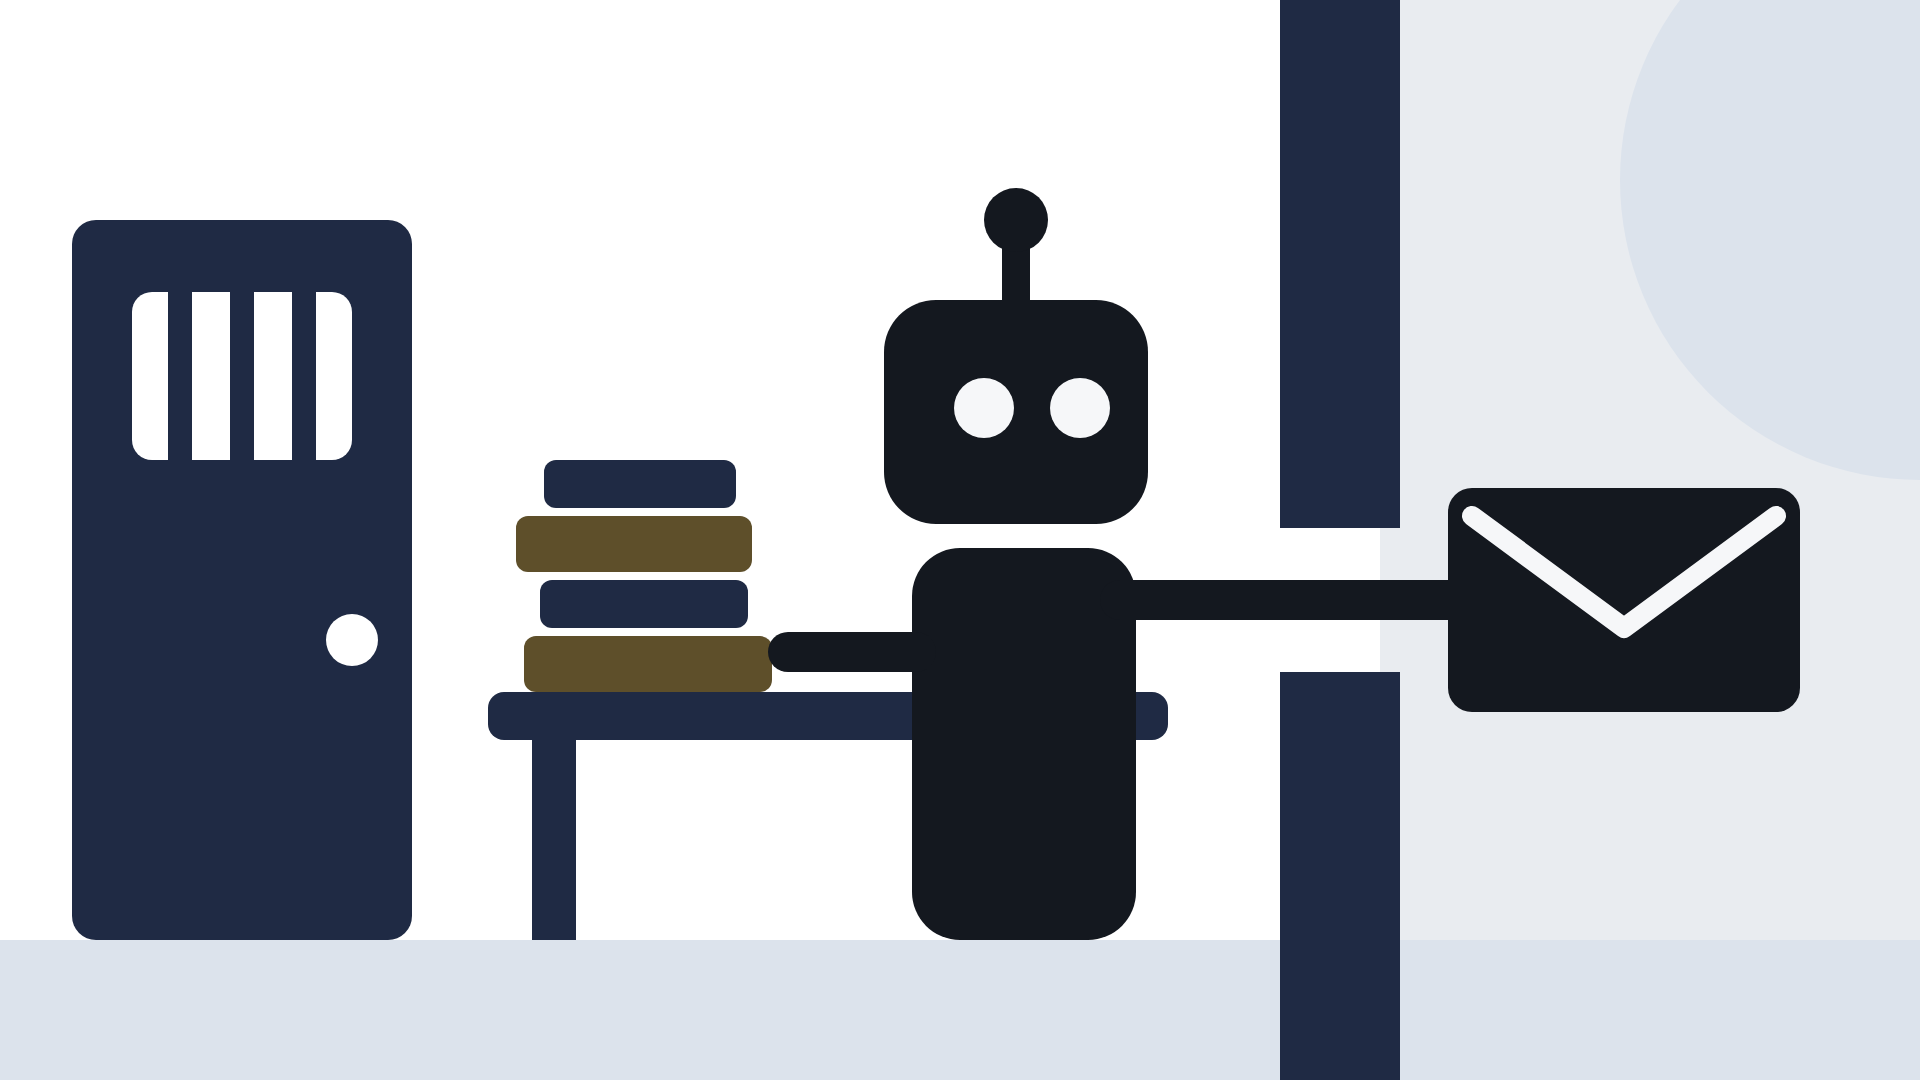
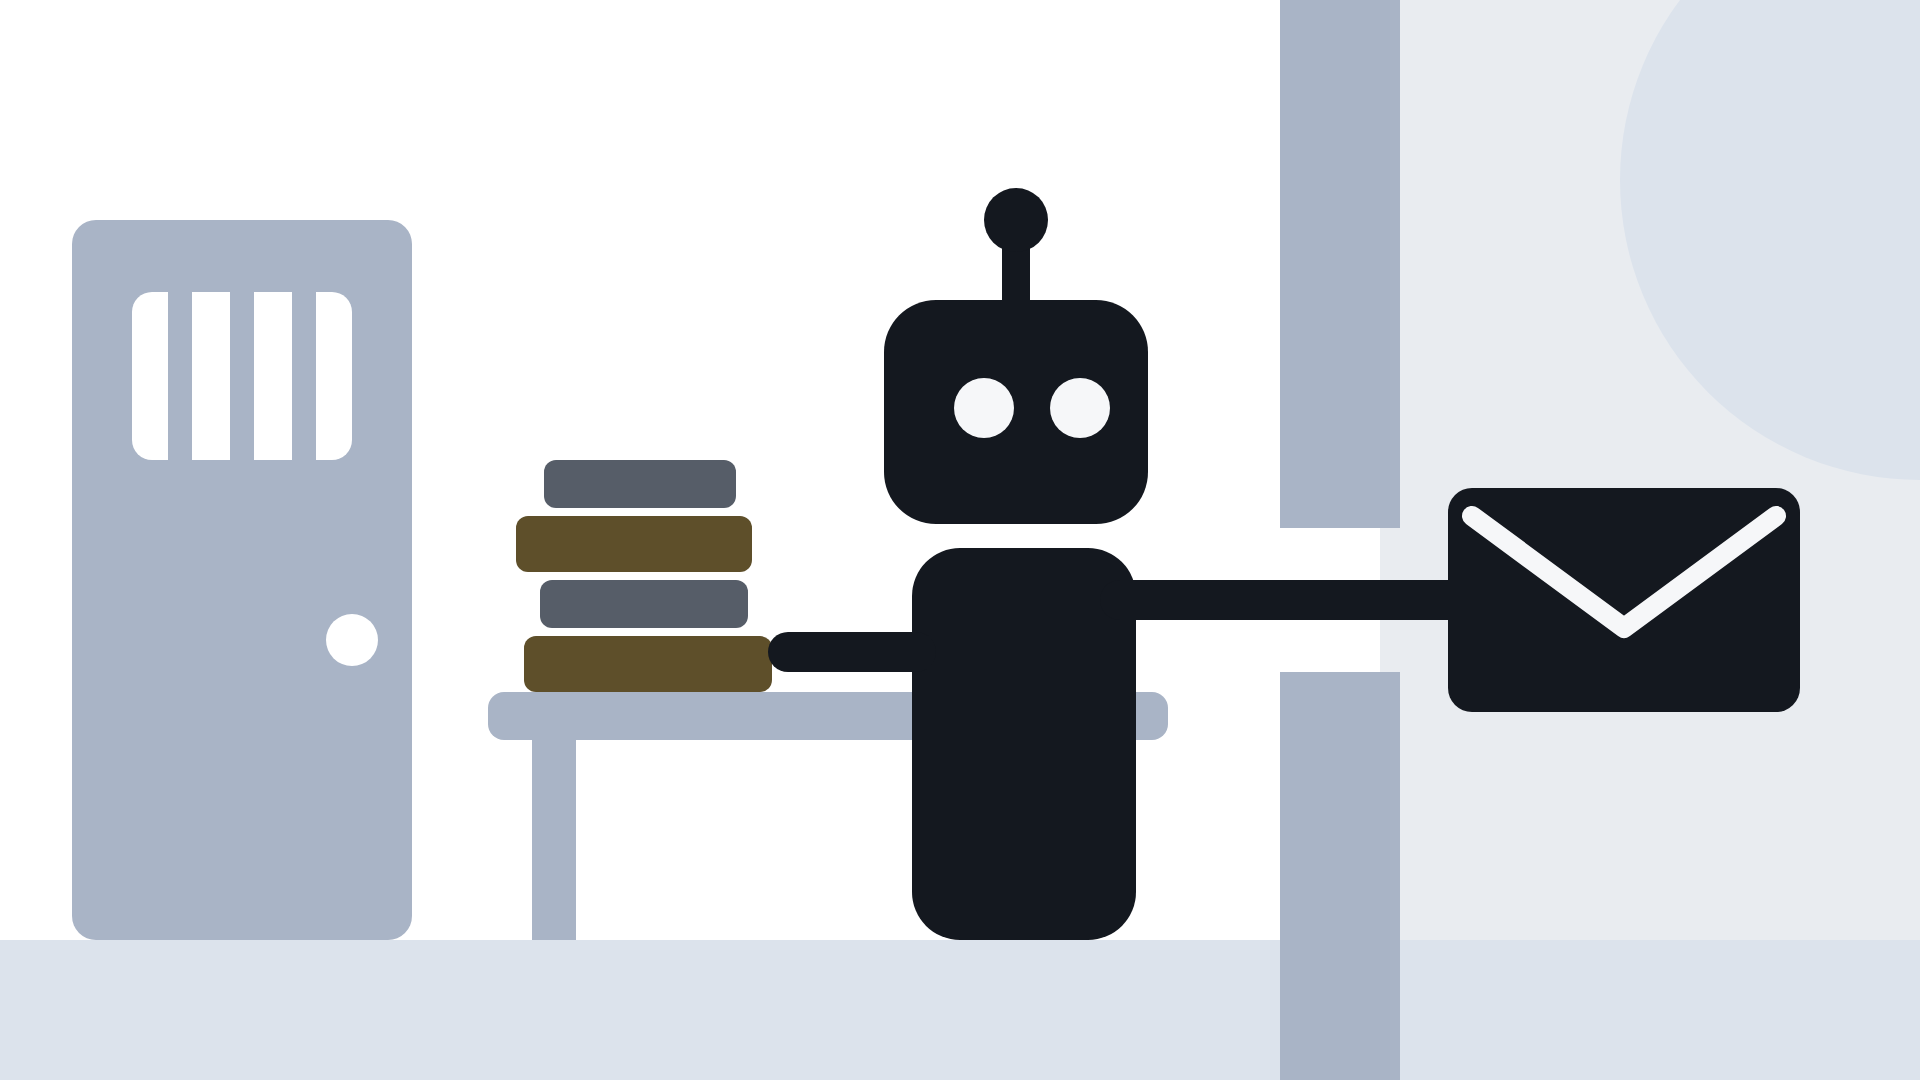
fix: a quieter setting in the headline figure
The door, table and wall recede in both themes, so the robot, books and
envelope carry the picture. figure-structure is now the color for a
figure's setting, and the rules say what to use for things that must stand
out.

diff --git a/design/system/tokens.css b/design/system/tokens.css
@@ -57,7 +57,7 @@
   --on-human: #14181f;
   --on-human-accent: #5e4f2a;
   --figure-hatch: #d6dbe3;
-  --figure-structure: #1f2a44;
+  --figure-structure: #a9b4c6;
   --focus: #3a74d0;
   color-scheme: light dark;
 }
@@ -81,7 +81,7 @@
     --on-human: #ece4d2;
     --on-human-accent: #d9c9a0;
     --figure-hatch: #2a3340;
-    --figure-structure: #8497bd;
+    --figure-structure: #4f5f82;
     --focus: #e8ecf2;
   }
 }
@@ -104,6 +104,6 @@
   --on-human: #ece4d2;
   --on-human-accent: #d9c9a0;
   --figure-hatch: #2a3340;
-  --figure-structure: #8497bd;
+  --figure-structure: #4f5f82;
   --focus: #e8ecf2;
 }

diff --git a/web/assets/mom-tokens.css b/web/assets/mom-tokens.css
@@ -57,7 +57,7 @@
   --on-human: #14181f;
   --on-human-accent: #5e4f2a;
   --figure-hatch: #d6dbe3;
-  --figure-structure: #1f2a44;
+  --figure-structure: #a9b4c6;
   --focus: #3a74d0;
   color-scheme: light dark;
 }
@@ -81,7 +81,7 @@
     --on-human: #ece4d2;
     --on-human-accent: #d9c9a0;
     --figure-hatch: #2a3340;
-    --figure-structure: #8497bd;
+    --figure-structure: #4f5f82;
     --focus: #e8ecf2;
   }
 }
@@ -104,6 +104,6 @@
   --on-human: #ece4d2;
   --on-human-accent: #d9c9a0;
   --figure-hatch: #2a3340;
-  --figure-structure: #8497bd;
+  --figure-structure: #4f5f82;
   --focus: #e8ecf2;
 }

diff --git a/design/figures/style-guide.md b/design/figures/style-guide.md
@@ -47,7 +47,7 @@ Figure sources use these names, written `{role}`. The renderer fills in the valu
 | `{on-human}` | `on-human` | `#14181f` | `#ece4d2` |
 | `{human-mark}` | `on-human-accent` | `#5e4f2a` | `#d9c9a0` |
 | `{hatch}` | `figure-hatch` | `#d6dbe3` | `#2a3340` |
-| `{structure}` | `figure-structure` | `#1f2a44` | `#8497bd` |
+| `{structure}` | `figure-structure` | `#a9b4c6` | `#4f5f82` |
 | `{brand}` | `brand` | `#1f2a44` | `#2a3a5e` |
 | `{on-brand}` | `on-brand` | `#f6f7f9` | `#e8ecf2` |
 
@@ -293,7 +293,7 @@ An illustration is for a place or a moment, not an explanation. It shares its la
 - **View**: flat side elevation. No perspective, no ground shadow, no gradient, no texture, no outlines.
 - **Shapes**: rectangles with corners of at least 12px, discs and simple curves. People are silhouettes with no faces; use the person glyph's proportions.
 - **One large disc** cropped by the canvas edge, as in the placeholder art's `eclipse` and `moon` compositions.
-- **Palette**: `{ground}`, `{inset}`, `{machine-fill}`, `{human-fill}`, `{human-mark}`, `{brand}`, `{structure}`, and `{focal}` with `{on-focal}` on the subject only. No more than six in one figure. Anything the reader must see, at night too, needs 3:1 against what is behind it: use `{structure}` or `{human-mark}` for it, not `{brand}` or `{human-fill}`, which are for quiet paint. Here the fills are paint and say nothing about provenance. Don't put machine or human glyphs in an illustration.
+- **Palette**: `{ground}`, `{inset}`, `{machine-fill}`, `{human-fill}`, `{human-mark}`, `{brand}`, `{structure}`, and `{focal}` with `{on-focal}` on the subject only. No more than six in one figure. Draw the setting (walls, doors, furniture) in `{structure}`, so it stays visible in both themes without competing. Anything the reader must pick out, at night too, needs at least 3:1 against what is behind it: use `{focal}`, `{human-mark}` or `{ink-muted}`, not `{brand}` or `{human-fill}`. Here the fills are paint and say nothing about provenance. Don't put machine or human glyphs in an illustration.
 - **Subject**: exactly one in `{focal}`, in the lower third.
 - **Words**: only what a real sign would say, in `t-head`. An illustration carries no stamp; its caption says if the scene is invented.
 - It never depicts a real person, a real place or a real brand. No generated imagery unless an editor asks for it.

diff --git a/design/figures/rules.md b/design/figures/rules.md
@@ -149,7 +149,7 @@ An illustration is for a place or a moment, not an explanation. It shares its la
 - **View**: flat side elevation. No perspective, no ground shadow, no gradient, no texture, no outlines.
 - **Shapes**: rectangles with corners of at least 12px, discs and simple curves. People are silhouettes with no faces; use the person glyph's proportions.
 - **One large disc** cropped by the canvas edge, as in the placeholder art's `eclipse` and `moon` compositions.
-- **Palette**: `{ground}`, `{inset}`, `{machine-fill}`, `{human-fill}`, `{human-mark}`, `{brand}`, `{structure}`, and `{focal}` with `{on-focal}` on the subject only. No more than six in one figure. Anything the reader must see, at night too, needs 3:1 against what is behind it: use `{structure}` or `{human-mark}` for it, not `{brand}` or `{human-fill}`, which are for quiet paint. Here the fills are paint and say nothing about provenance. Don't put machine or human glyphs in an illustration.
+- **Palette**: `{ground}`, `{inset}`, `{machine-fill}`, `{human-fill}`, `{human-mark}`, `{brand}`, `{structure}`, and `{focal}` with `{on-focal}` on the subject only. No more than six in one figure. Draw the setting (walls, doors, furniture) in `{structure}`, so it stays visible in both themes without competing. Anything the reader must pick out, at night too, needs at least 3:1 against what is behind it: use `{focal}`, `{human-mark}` or `{ink-muted}`, not `{brand}` or `{human-fill}`. Here the fills are paint and say nothing about provenance. Don't put machine or human glyphs in an illustration.
 - **Subject**: exactly one in `{focal}`, in the lower third.
 - **Words**: only what a real sign would say, in `t-head`. An illustration carries no stamp; its caption says if the scene is invented.
 - It never depicts a real person, a real place or a real brand. No generated imagery unless an editor asks for it.
